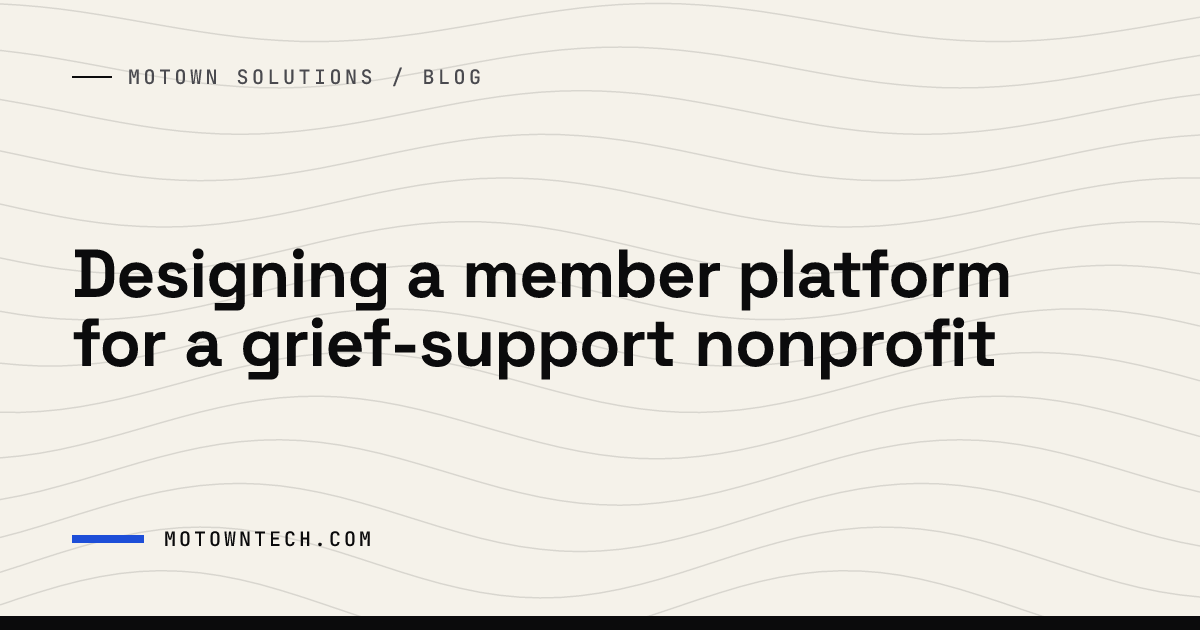
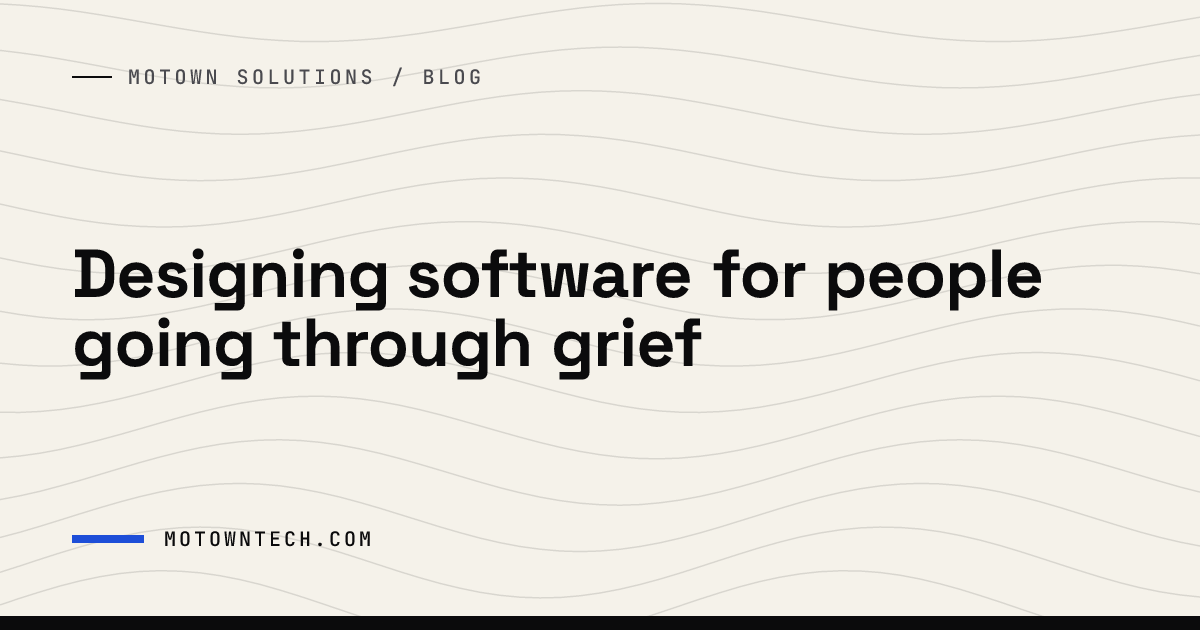
copy(blog): rewrite the building-for-people-in-grief post around the reader's problem

Changed region(s): [[0.0617, 0.3921, 0.8633, 0.6032]]

diff --git a/src/content/blog/building-for-people-in-grief.md b/src/content/blog/building-for-people-in-grief.md
@@ -1,54 +1,52 @@
 ---
-title: "Designing a member platform for a grief-support nonprofit"
+title: "Designing software for people going through grief"
 image: ../../assets/blog/building-for-people-in-grief-image.jpg
 imageAlt: "A small olive sapling in a pot on a blue windowsill in sunlight"
 cover: ../../assets/blog/building-for-people-in-grief.png
-description: "How the people a grief-support nonprofit serves shaped its public site, members' app and back office, from the first question to the last email."
+description: "People who come to you after a loss have a lot to carry already. What that should change about your forms, tone, dates and member data."
 pubDate: 2026-10-07
 relatedPages: ["/case-studies/nonprofit-community"]
 category: case-stories
 ---
 
-A small nonprofit we built for supports women through the loss of a parent. It runs community events, grief support groups and subsidized therapy, and it marks the anniversaries that come around every year. When we started, it had no software at all. The story, the applications and the community all lived in conversations.
+If the people you serve come to you after a loss, they came for help, and your software is only the way to reach it. Every question, field and button you put in front of them is one more thing to do on a day when they already have plenty to carry. Designing for them mostly means asking less, and asking it gently.
 
-We built a public site that explains the organization and takes applications, a members' app, and the back office the staff now run everything from, 47 screens in all. The feature list mattered less than one fact about the people using it: most of them come to it soon after losing a parent, usually on a phone, so the software has to ask as little of them as possible.
+## Ask for less, in smaller pieces
 
-## One question at a time
+A long form is a small thing on an ordinary day. For someone who lost her mother last month, it can be the reason she closes the tab and means to come back later. Breaking an application into one group of questions at a time makes it feel manageable, and it suits a phone, which is where most people will fill it in.
 
-That fact changed small decisions everywhere. The application asks one group of questions at a time, so nobody faces a long form on a bad day. When a member leaves a memorial wish for someone, the app offers a few preset phrases before it offers an empty text box, because a blank box is hard to fill when you are grieving. Nothing important happens on a single click without a chance to stop.
+Empty text boxes deserve the same thought. A grief-support nonprofit we worked with lets members leave a memorial wish for someone else in the community. The app offers a few preset phrases first, and a member can still write her own. Finding words for someone else's loss is hard, and a place to start helps.
 
-The design brief listed what the product should never look like: clinical, corporate, greeting-card or funereal. The public site uses a warmer voice, because it has to persuade someone to apply. Inside, past the login, it's calmer and built for coming back to. Both halves share one accent color, and that color is used only on the button that finishes a form.
+Also check that nothing important happens on a single tap without a chance to stop.
 
-We also took a word out. Early copy described the community as "peer-led." That describes how the organization is run, and it undersold what a visitor actually gets, since the support groups and subsidized therapy aren't run by peers. It came out of every page. The client then rewrote the public copy themselves, and we used their version as written. They know how to talk to the person arriving.
+## Decide on a tone, and write down what to avoid
 
-## The anniversary has to land on the right day
+Software for hard moments tends to slide toward cold and clinical or toward soft and sentimental. The nonprofit's design brief named four things the product should never look like: clinical, corporate, greeting-card or funereal. A list like that is easy to check a screen against.
 
-For the people this nonprofit serves, the anniversary of a parent's death (the Yahrtzeit) is one of the most important days of the year. It is recorded as a Hebrew date, so its date on the ordinary calendar moves every year. In a leap year, an anniversary that falls in the month of Adar is observed in Adar II.
+The tone can also change with the job. Their public site has to persuade someone to apply, so its voice is warmer. Past the login, the members' app is calmer and made for coming back to.
 
-The memorial wall is built on those dates. The system works out each anniversary fresh for every year, including the leap-year rule, and sends reminders and community wishes before the day. Getting this wrong would mean a reminder on the wrong day, so we treated it as core logic from the start.
+Then read the words closely. Early copy called the community "peer-led." That described how the organization is run and undersold what a visitor gets, since the support groups and subsidized therapy aren't run by peers. The phrase came out of every page. When the staff rewrote the public copy themselves, we used their version as written. The people who do this work every day usually know how to welcome someone better than any designer does.
 
-Reminders run hourly. The hosting sleeps when idle, and checking every fifteen minutes would have kept it awake and billing all day. The reminder job is written so that a late run catches up, which means a reminder can arrive a little later but is never skipped.
+## Get the dates that matter exactly right
 
-## Who can see and erase a member's data
+Many organizations in this space keep track of dates: anniversaries, milestones, a day each year someone wants remembered. If your software sends a reminder for one, it has to arrive on the right day.
 
-A member's record belongs to her, and the permissions are built around that.
+For this nonprofit, that date is the Yahrtzeit, the anniversary of a parent's death. It's recorded on the Hebrew calendar, so it falls on a different ordinary date every year, and in a leap year an anniversary in Adar is observed in Adar II. The system works each one out fresh every year, and we treated that as core logic from the start.
 
-Staff sometimes need to see the members' app with real data. They can only do that by signing in as a dedicated test account, which has three separate safeguards and can't reach any real member's account. Every time someone enters or leaves that view, it goes in the audit log.
+So ask early which dates matter to the people you serve, and which calendar they keep them on.
 
-Closing an account is something a member asks for. Erasing her personal details is a separate step an admin takes later, and only on an account that is already closed. When the details are erased, the memorial she created for her parent and the wishes others wrote stay in place.
+## Treat each member's record as hers
 
-Email works the same way. Members can turn off each kind of bulk email, and only messages about their own account always arrive. Unsubscribing asks for confirmation and doesn't promise an instant effect it can't deliver.
+People share a lot with an organization that supports them through something hard. Build the permissions on the assumption that what they share belongs to them. A few questions worth answering before launch:
 
-## The back office
+- Can staff see a real member's account? At the nonprofit, staff who need to preview the members' app on real data sign in as a dedicated test account that can't reach any real member, and every visit goes in the audit log.
+- What happens when someone leaves? Closing an account is the member's request. Erasing her personal details is a separate step an admin takes later, and the memorial she made for her parent stays in place.
+- Which emails can she turn off? Every kind of bulk email. Only messages about her own account always arrive.
 
-Before the platform, there was no way to see who nobody had checked in on lately. Now staff have reach-out tasks that surface exactly those members, with a view of each staff member's workload.
+## Let the software keep the rules
 
-Giving moved into the same system: one-off and recurring donations with dedications, PDF receipts and annual giving statements. Recurring charges run inside the app so every cycle produces its own receipt, and two charging runs can never overlap, so nobody is charged twice.
-
-## Rules the software enforces for a team of four
-
-The nonprofit has no engineers on staff. Wherever we could, we made a rule the software enforces itself. Every change has to pass the full test suite, with exactly 100% line coverage and 100% type coverage, before it can be merged. Text never drops below a 4.5:1 contrast ratio, placeholders and disabled labels included. Every admin action is logged, and the destructive ones are limited to a single role.
+Most organizations doing this work are small. This one has a team of four and no engineers on staff, so wherever we could, a rule became something the software enforces itself. Every change has to pass the full test suite before it can be merged. Text never drops below a 4.5:1 contrast ratio, placeholders included. Every admin action is logged, and the destructive ones are limited to a single role. Nobody has to remember any of it during a busy week.
 
 A member should be able to apply, find an event and remember her parent without thinking about the software at all.
 
-The [nonprofit community case study](/case-studies/nonprofit-community) has the full build, including the technical decisions behind each of these. If you're building for people who arrive on a hard day, [tell us who they are](/contact). That answer changes more of the build than the feature list does.
+The [nonprofit community case study](/case-studies/nonprofit-community) covers the full build. If you're designing for people going through something hard, read how we approach [UI and UX design](/ui-ux-design-services), or [tell us who they are](/contact).

diff --git a/linkedin/building-for-people-in-grief/post.md b/linkedin/building-for-people-in-grief/post.md
@@ -2,27 +2,26 @@
 
 ## Post 1: native text
 
-The people using this software arrive on one of the worst days of their year.
+People who come to a grief-support organization are there for the help. The software is just the way in, and every question it asks is one more thing to do on a day when they already have plenty to carry.
 
-A small nonprofit we built for supports women through the loss of a parent. Most members come to it soon after losing a parent, usually on a phone, so the software has to ask as little of them as possible. That shaped the build more than any feature list did.
+A few things we'd check in any product built for people going through something hard:
 
-The application asks one group of questions at a time, so nobody faces a long form on a bad day. A memorial wish offers a few preset phrases before it offers an empty text box. Nothing important happens on a single click without a chance to stop.
+• Ask for less, in smaller pieces. One group of questions at a time feels manageable, especially on a phone.
+• Give people words to start from. When members of one nonprofit we worked with leave a memorial wish for someone, the app offers a few preset phrases first, and they can still write their own.
+• Write down the tones to avoid. That nonprofit's design brief named four: clinical, corporate, greeting-card and funereal.
+• Get the dates that matter exactly right. Their members mark a parent's anniversary on the Hebrew calendar, so it moves every year and has to be worked out fresh.
+• Treat each member's record as hers. Closing an account is her request, and erasing her details later leaves the memorial to her parent in place.
+• Let the software keep the rules a small team can't watch every week.
 
-The anniversary of a parent's death is recorded as a Hebrew date, so it moves on the ordinary calendar every year. The memorial wall works it out fresh each year, leap-year rule included, and sends reminders before the day.
-
-A member's record belongs to her. Closing an account is something she asks for, and erasing her details later leaves the memorial to her parent in place.
-
-The nonprofit has no engineers on staff, so wherever we could, the software enforces its own rules.
-
-If you're building for people who arrive on a hard day, start by asking who they are and what state they're in.
+Most of these decisions come from one question: who arrives at your product, and what kind of day are they having?
 
 Full write-up in the comments.
 
 ## Post 2: carousel (~/Documents/Motown Carousels/building-for-people-in-grief.pdf)
 
-Document title: Building for people on a hard day
+Document title: Designing software for people in grief
 
-Five decisions from a grief-support nonprofit's platform, where every member arrives grieving. Swipe through, and the full write-up is in the comments.
+Five things to check when the people you serve arrive after a loss, from our work with a grief-support nonprofit. Swipe through, and the full write-up is in the comments.
 
 ## First comment (both posts)
 
